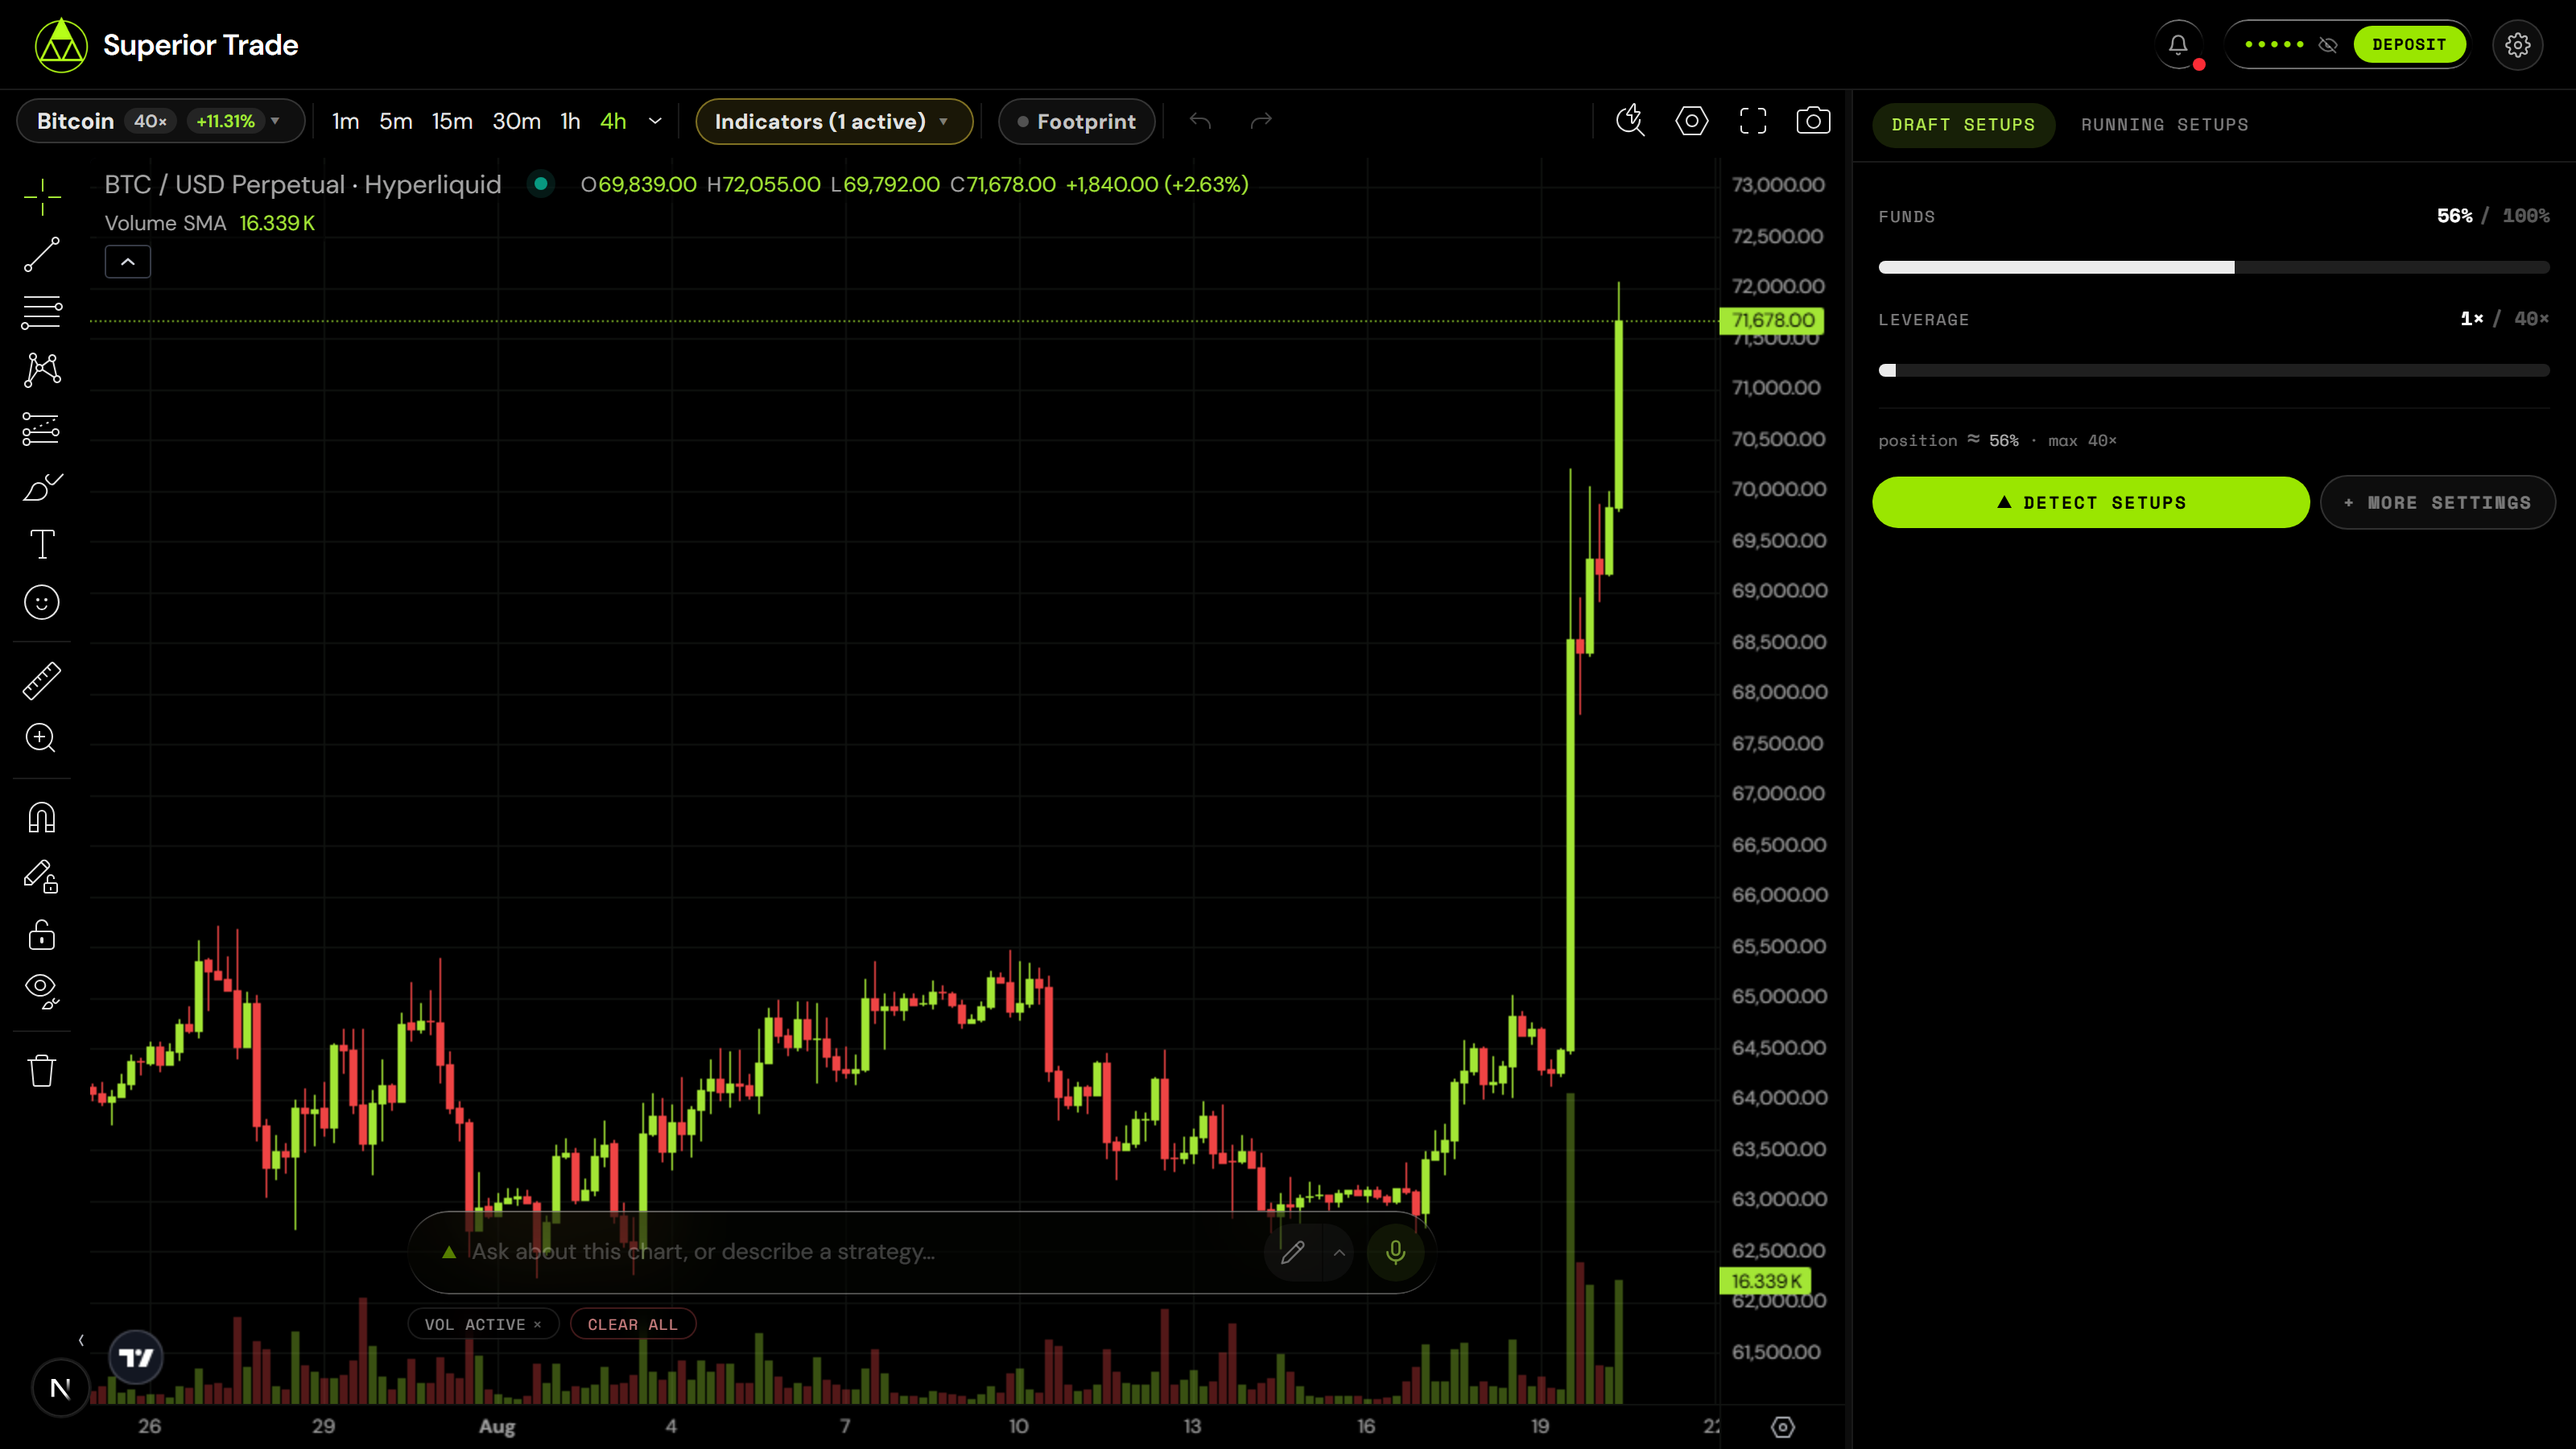
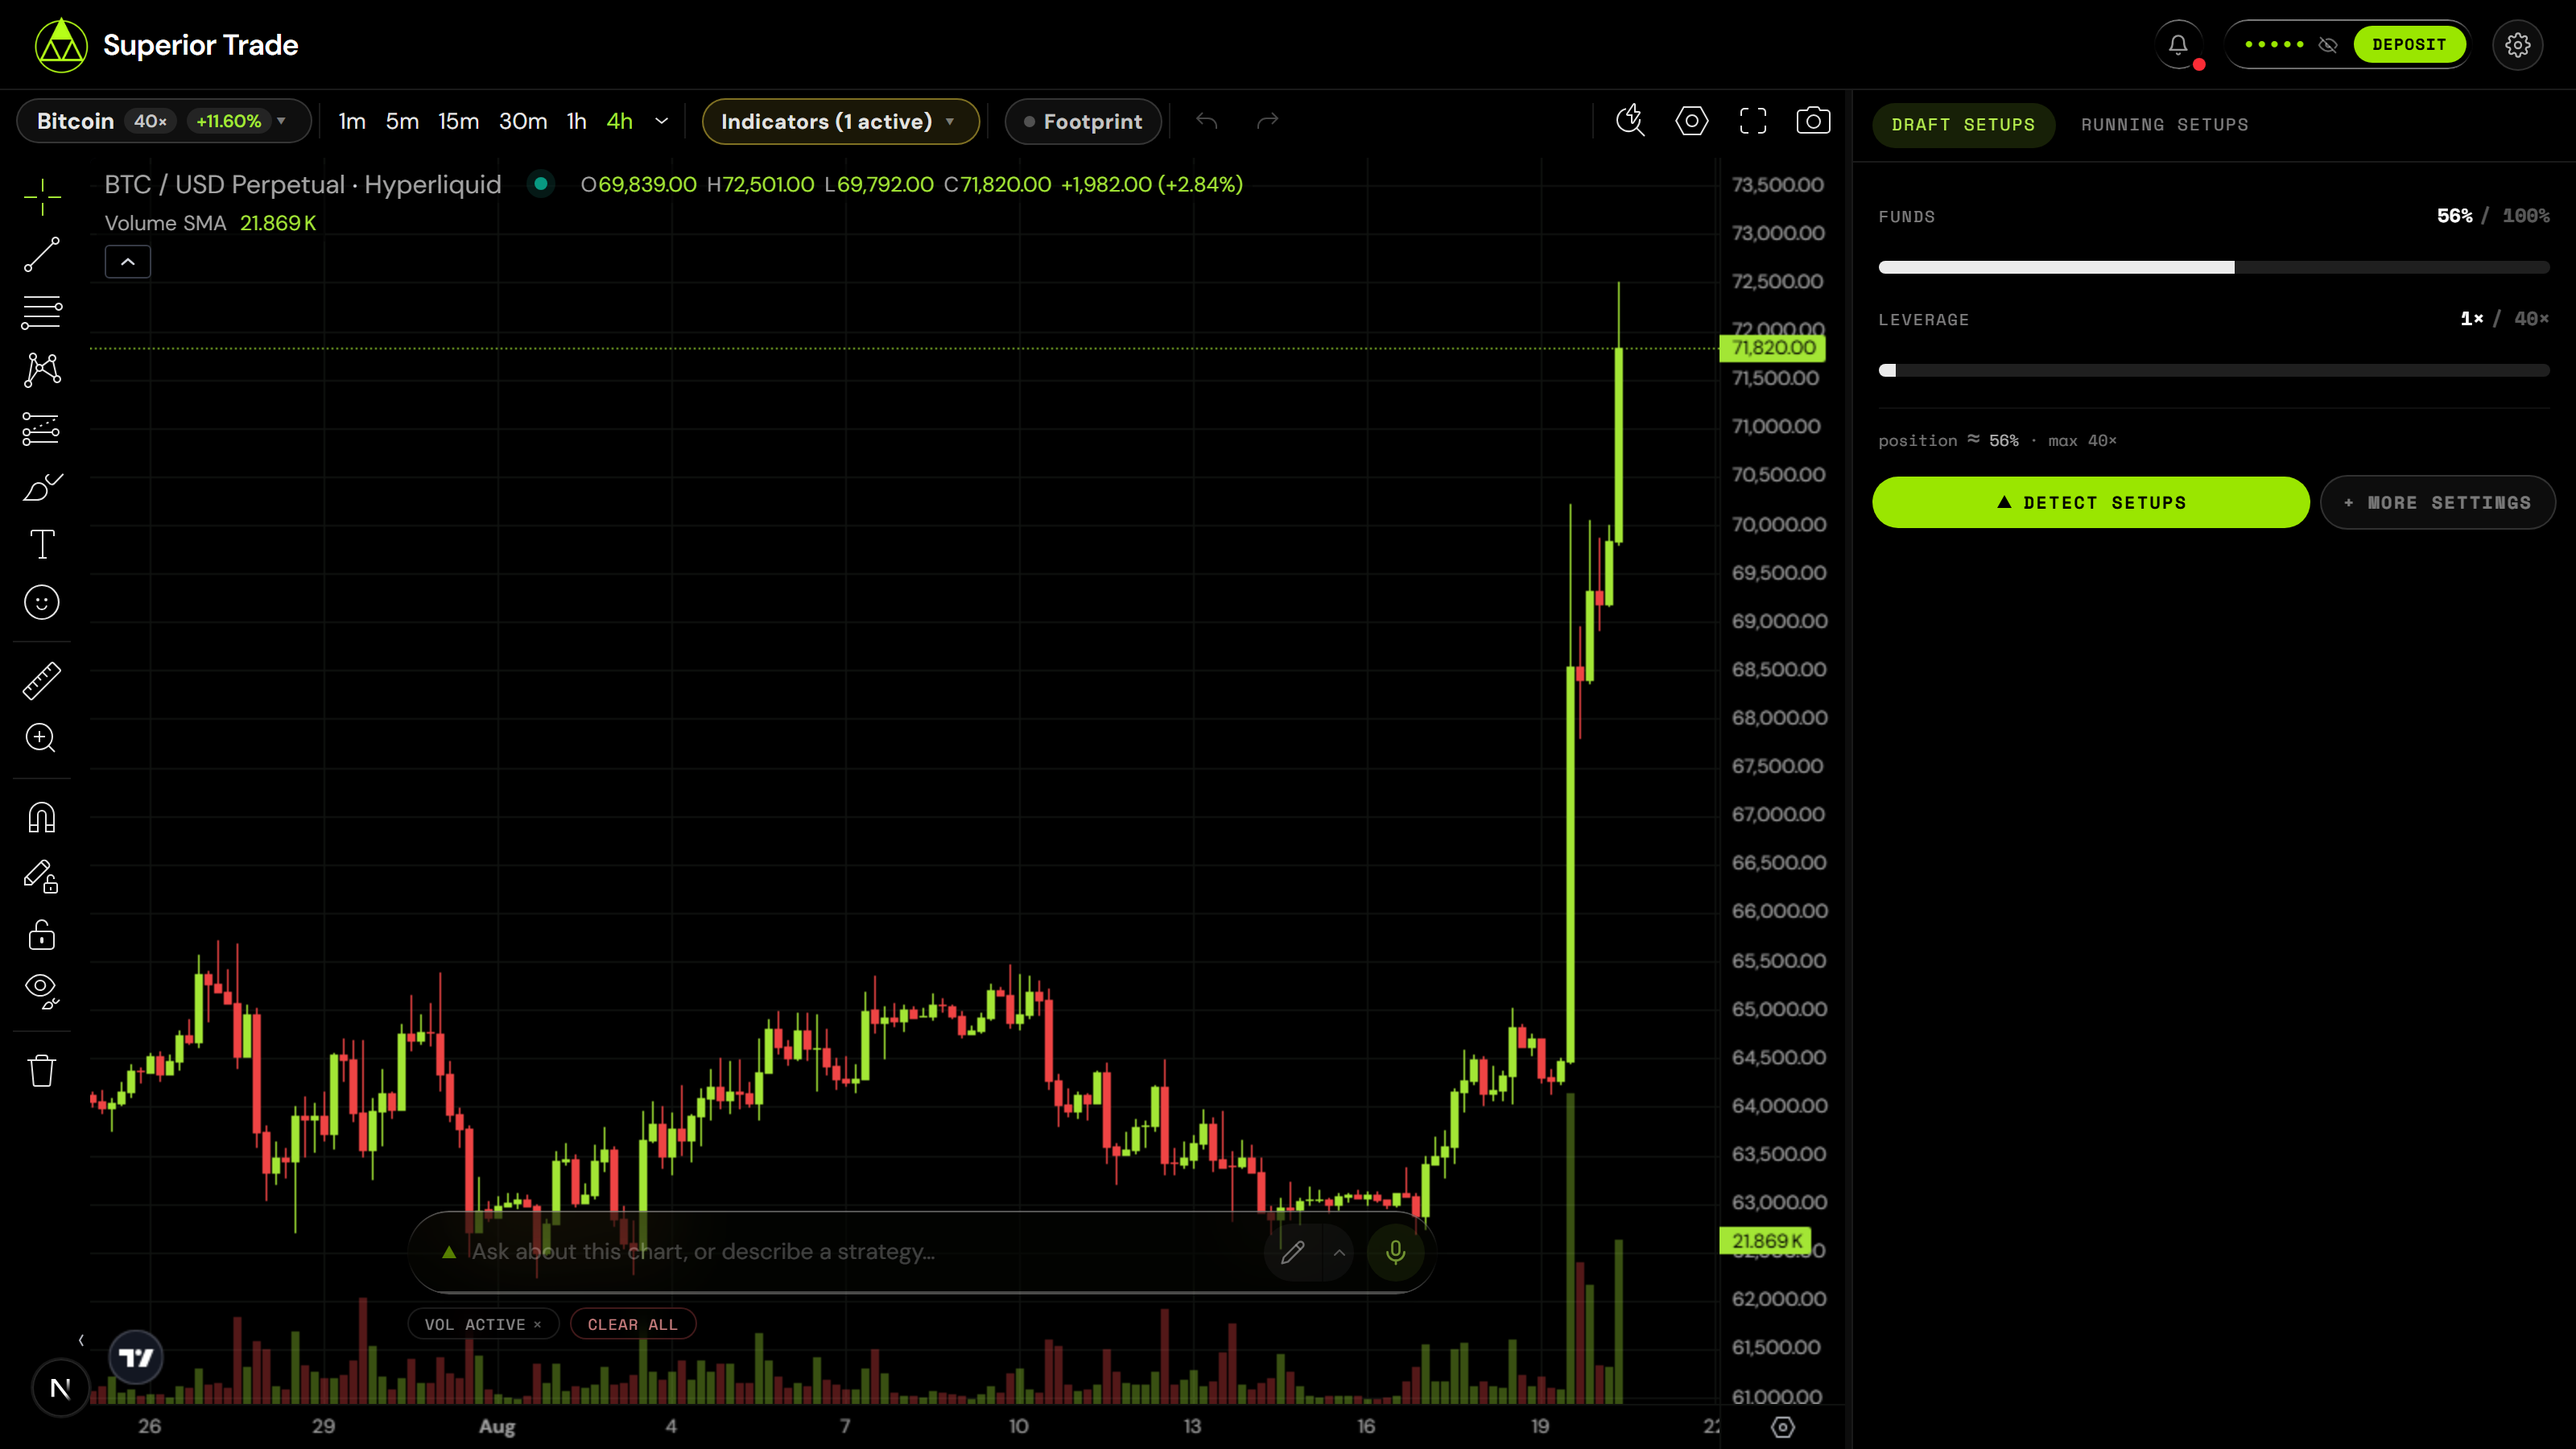
Add the deployments screenshot; fold bracket-orders into architecture
Two gaps, both fair.

ONE SCREENSHOT WAS NOT ENOUGH. The chart shot shows half the product — the half
where you ask for something. The other half is what you already have deployed:
status, levels, R multiple, and the restart/stop/delete controls. That is now
docs/media/deployments.png, captured the same way at 3200x1800 with stakes masked
by privacy mode.

Getting it needed a change to scripts/screenshot.mjs. My earlier attempt at a
second shot clicked a setup card to draw its levels on the chart, which is a
fragile target and kept failing. A tab is not fragile, and the running-setups tab
is the more useful view anyway.

SIX DOCS WAS ONE TOO MANY. Every other file has an obvious reader — the chart
library is a mandatory setup step, self-hosting is the config reference,
strategy-pipeline is the part worth reading, architecture orients a contributor,
withdrawals answers the question the design will provoke. bracket-orders.md had
none: architecture.md already introduced brackets, and the rest was detail a
contributor reads in the code.

Its load-bearing content — the normalTpsl grouping, and the reason teardown is
deployment-scoped rather than wallet-scoped — moved into architecture.md where it
sits next to the routing decision it explains. The file is gone and the README's
documentation table is five rows, which is closer to the size this project
actually is.

diff --git a/README.md b/README.md
@@ -61,6 +61,11 @@ that tells you when something happened.
 *The plan is not just text — entry, stop and target are drawn on the chart you are
 looking at, and every card carries its own reasoning, R multiple and confidence tier.*
 
+<img src="docs/media/deployments.png" alt="The running-setups panel listing deployed strategies with their status, levels and controls" width="900">
+
+*The other half: what you have deployed, what state each one is in, and the controls
+to restart, stop or delete it.*
+
 ## Hosted or self-hosted
 
 The hosted build at [terminal.superior.trade](https://terminal.superior.trade) is this
@@ -168,7 +173,6 @@ Not investment advice. No promise of profit. You are responsible for what you ru
 | [docs/strategy-pipeline.md](docs/strategy-pipeline.md) | Generation, validation, repair, logging |
 | [docs/charting-library.md](docs/charting-library.md) | Installing TradingView Advanced Charts |
 | [docs/withdrawals.md](docs/withdrawals.md) | How money gets out, and how far this repo takes it |
-| [docs/bracket-orders.md](docs/bracket-orders.md) | One-shot plans as native exchange orders |
 | [docs/self-hosting.md](docs/self-hosting.md) | Configuration, databases, running it somewhere else |
 
 ## Development

diff --git a/docs/architecture.md b/docs/architecture.md
@@ -76,7 +76,15 @@ matters.
 
 - A **recurring** strategy deploys as a live Freqtrade bot (`/api/deploy`).
 - A **one-shot** plan with a fixed entry needs no bot at all — it becomes native exchange
-  orders, entry plus reduce-only TP and SL ([bracket-orders.md](bracket-orders.md)).
+  orders — entry plus reduce-only take-profit and stop-loss, placed atomically as
+  one Hyperliquid `order` action with `grouping: "normalTpsl"`. The TP and SL park
+  until the entry fills, then arm as an OCO pair. No pod to run, and the exchange
+  holds the orders, so it survives a restart.
+
+  A bracket occupies a trading wallet exactly like a deployment does, which is why
+  teardown is deployment-scoped rather than wallet-scoped — a wallet-wide "cancel
+  everything" would kill an unrelated bracket sharing that wallet. Leverage is a
+  separate exchange call made before the entry, not part of it.
 
 **6 — Afterwards.** Live PnL polls every few seconds. A time-boxed plan carries an
 `aliveUntil`, and `/api/cron/one-shot-sweep` stops one-shot deployments once their trade
